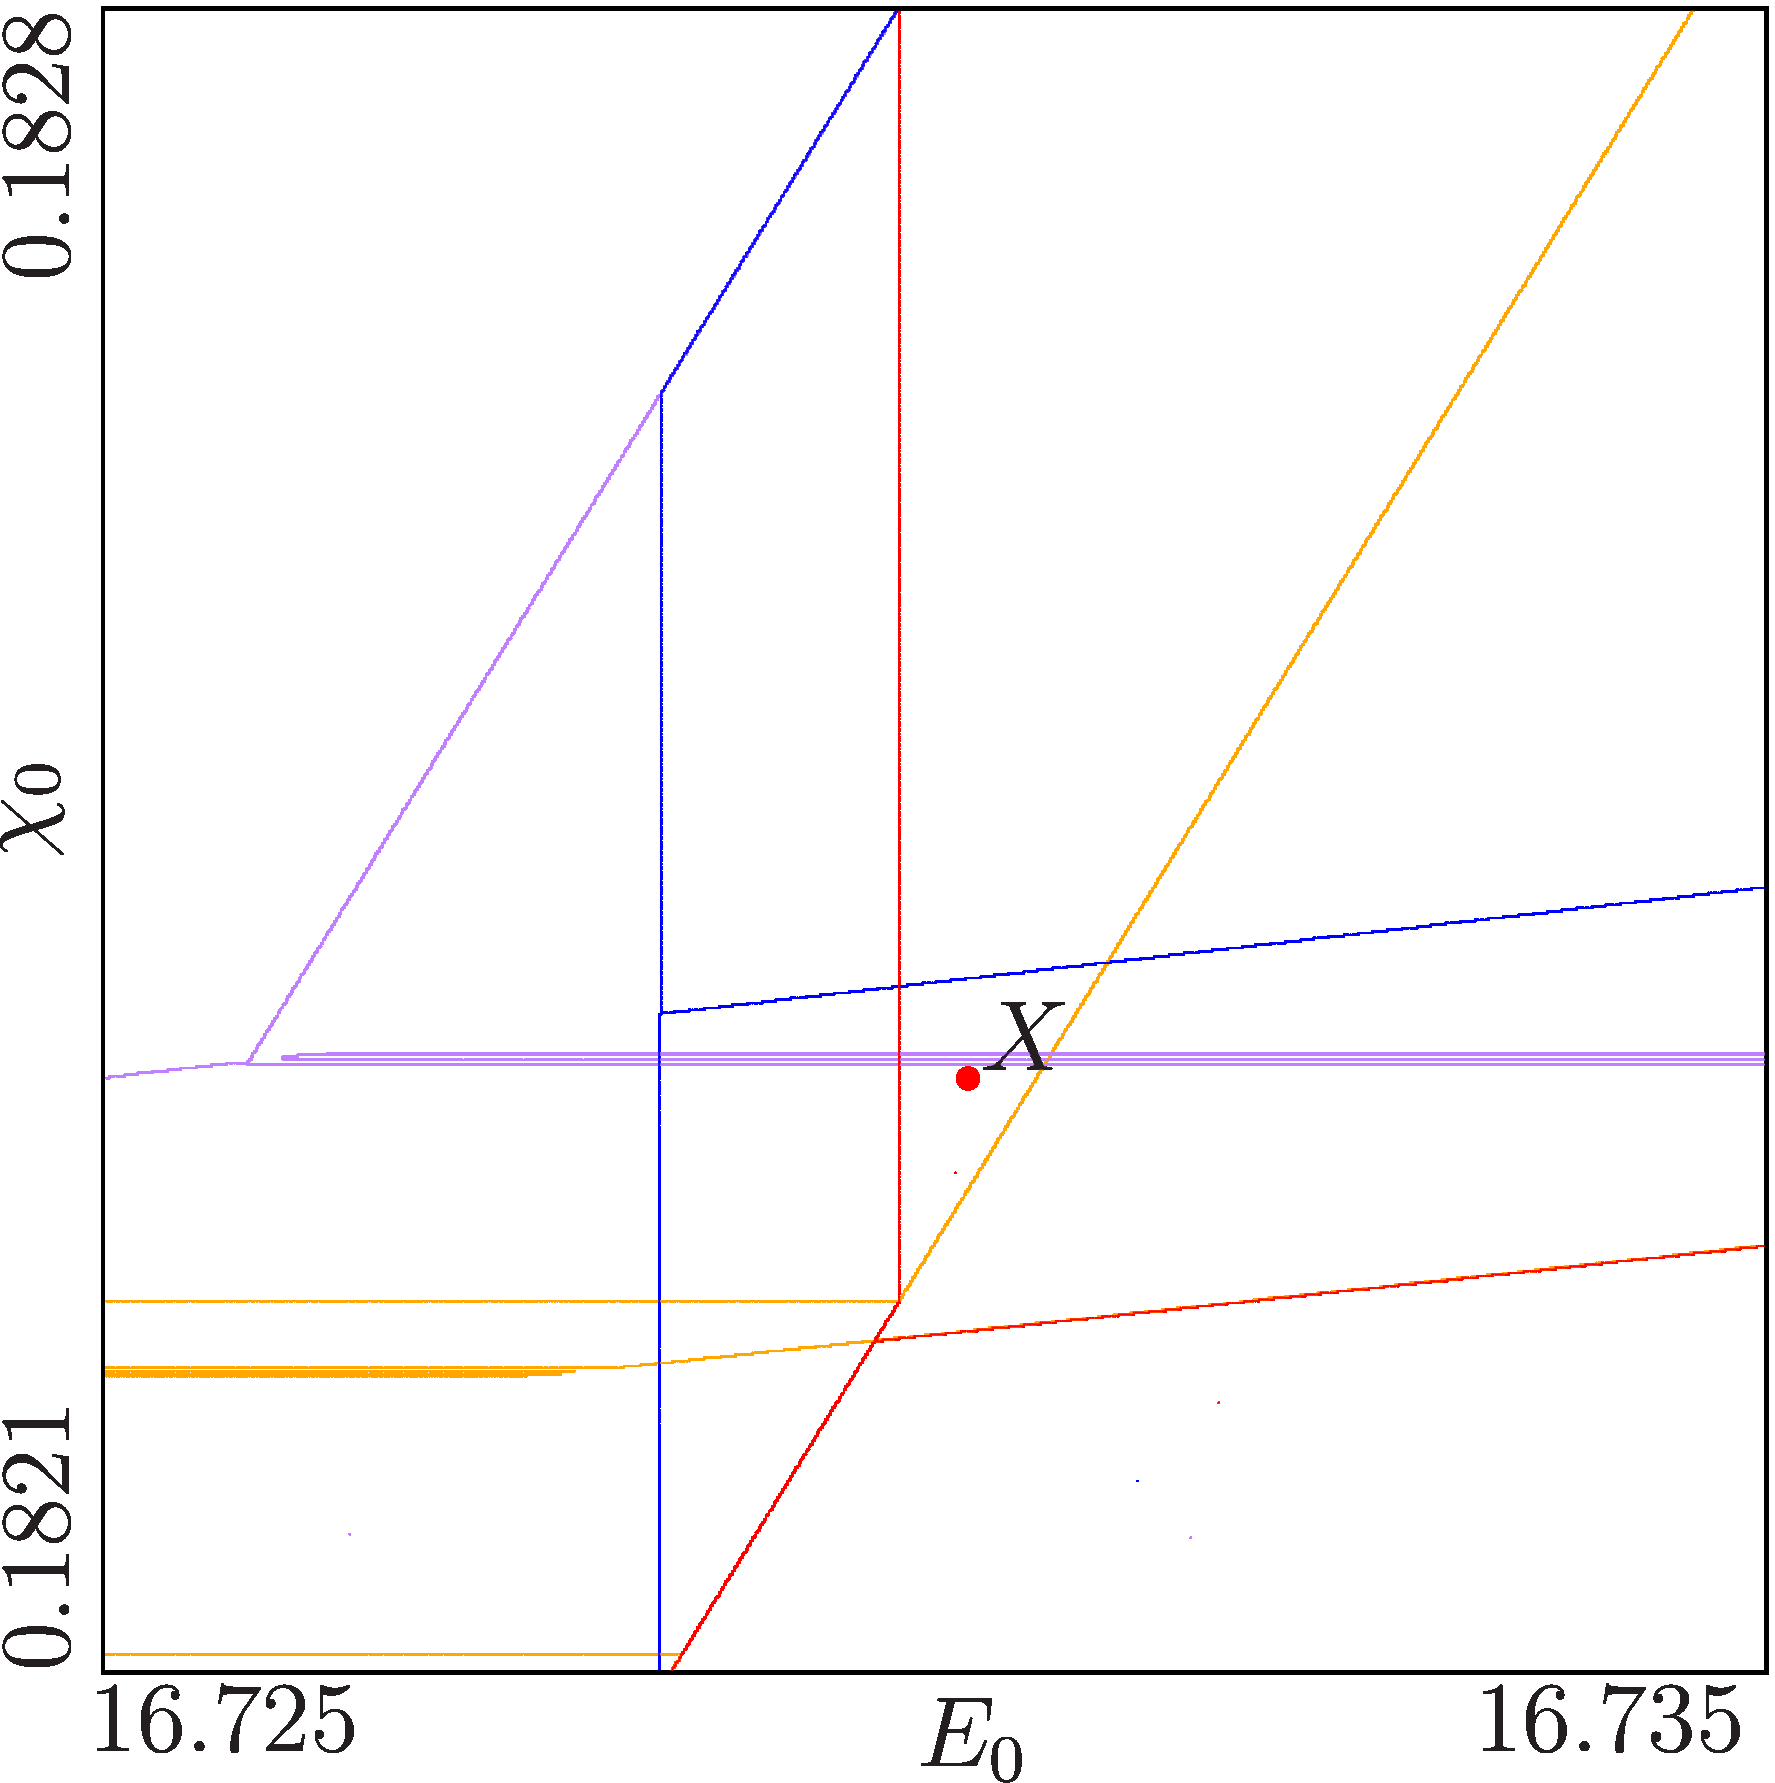
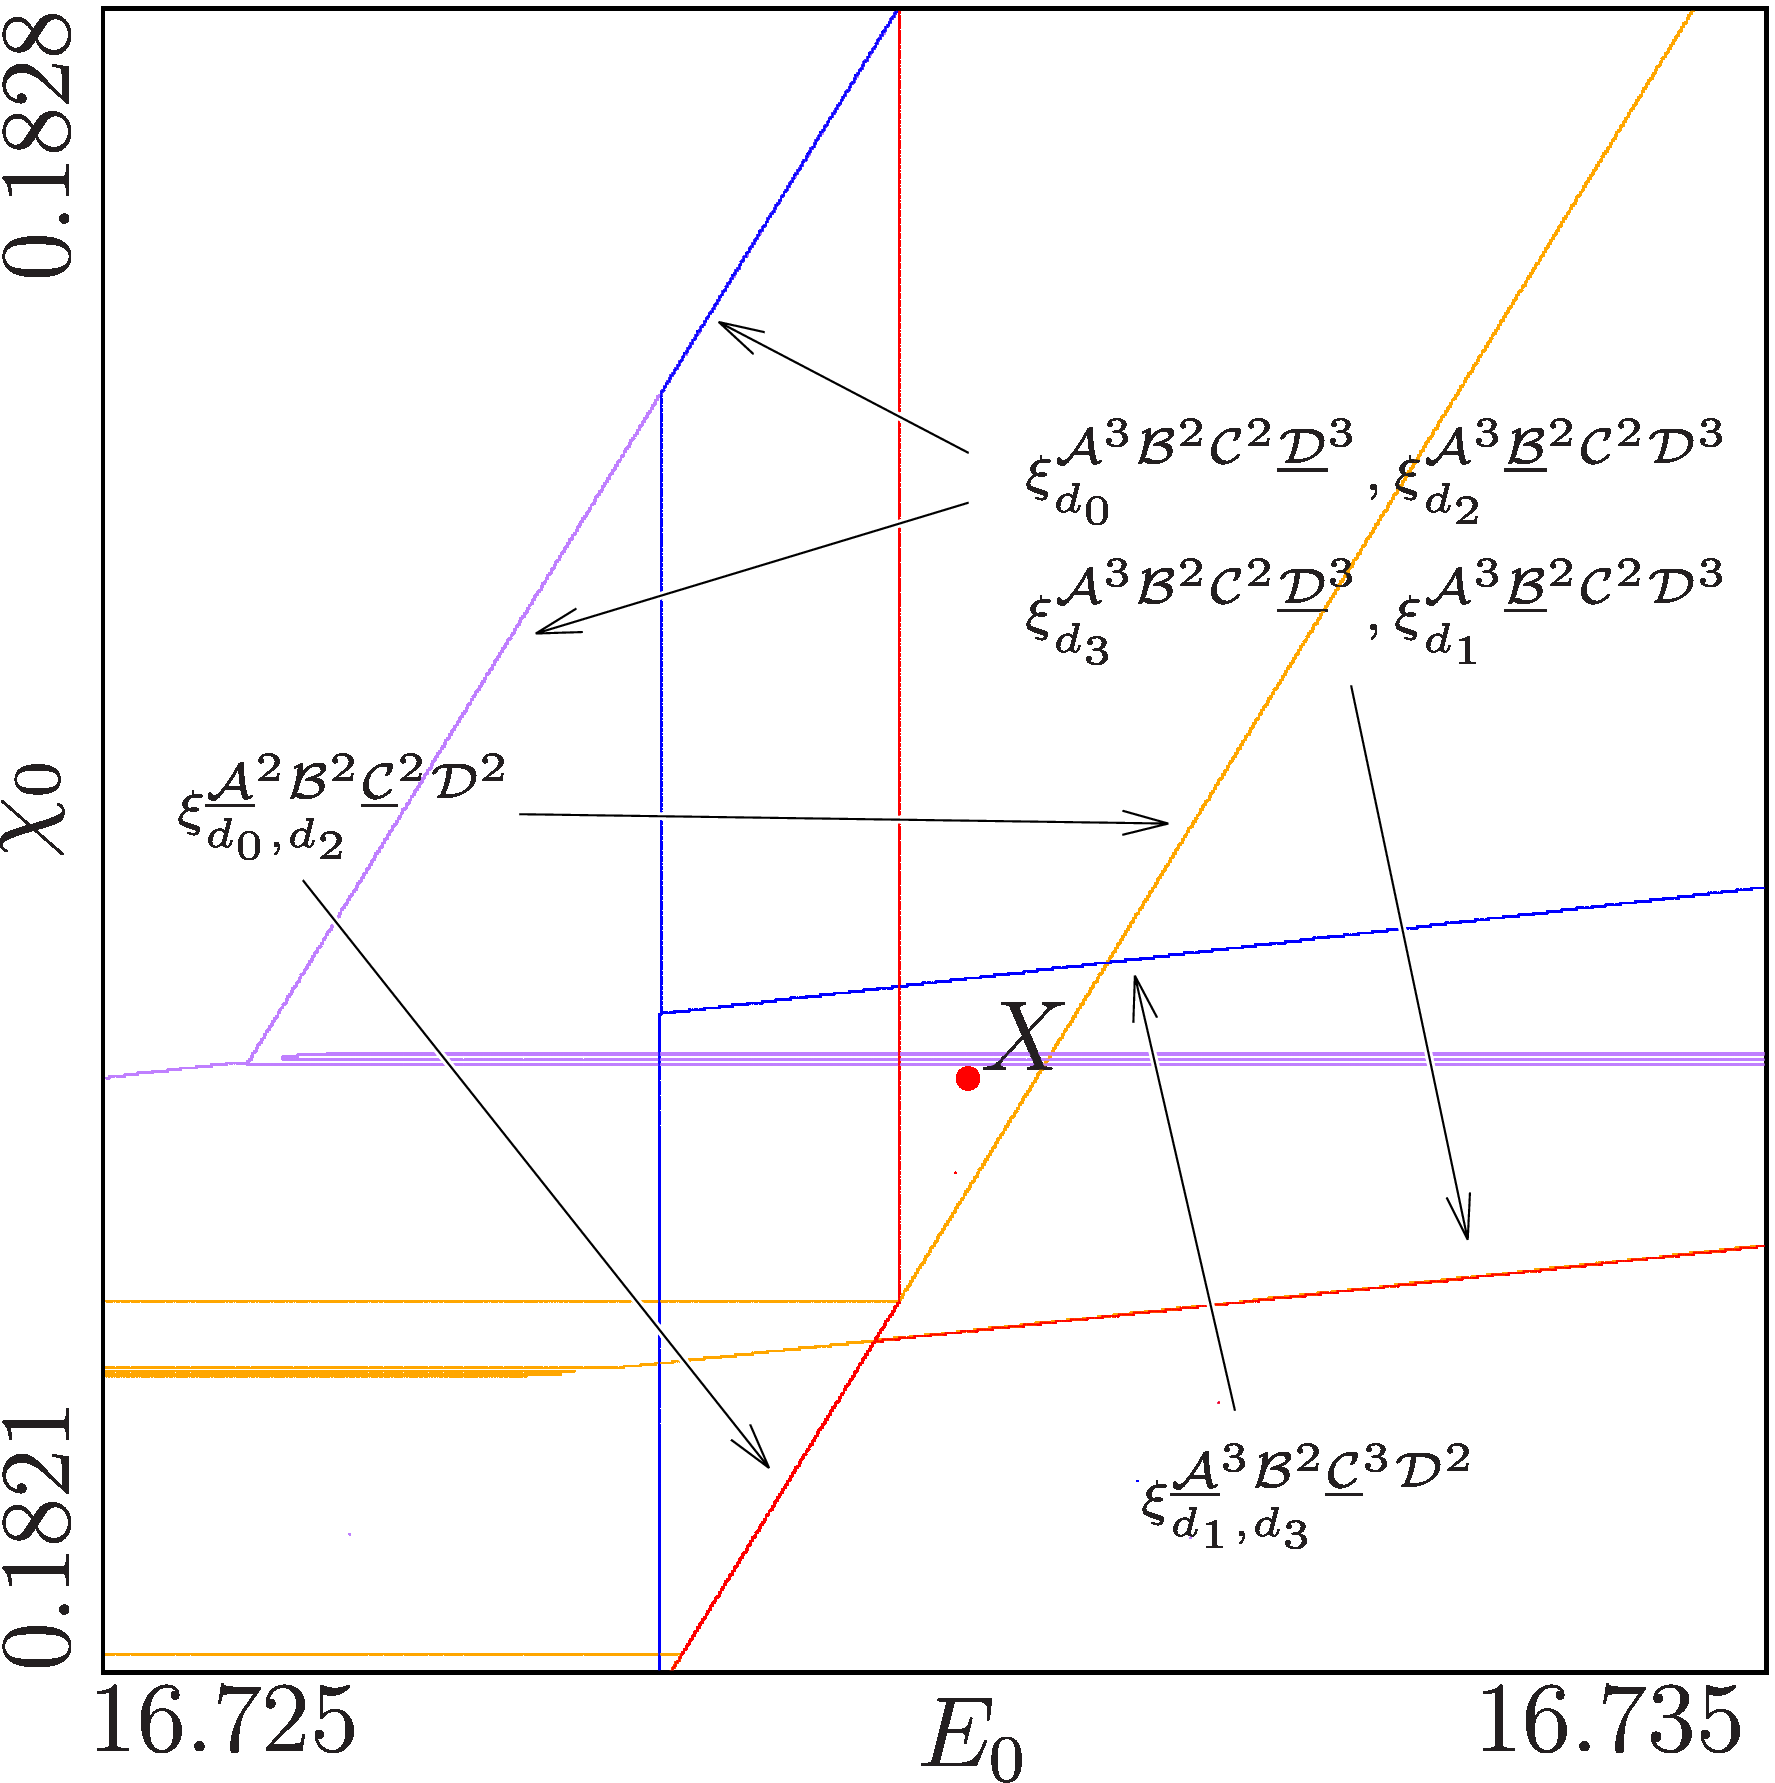
add annotations for boundaries in b scan of 4 coex in og model

diff --git a/Report/Sections/60_Dynamics/60_coexistence.tex b/Report/Sections/60_Dynamics/60_coexistence.tex
@@ -202,28 +202,20 @@ Therefore, coexisting cycles differ in their periods by two at most.
 \Citeauthor{akyuz2022} covered all these coexistence scenarios in \cite{akyuz2022} with one exception.
 The coexistence of four cycles was not described in his preliminary investigation of the original model.
 This section confirms that this scenario also exists in the original model.
-For this, \Cref{fig:arch.coex.og.regions} shows a 2D scan of the boundaries of parameter regions zoomed in at the lower left corner of the ``type B'' parameter region containing the point $F_{16}$ shown in \Cref{fig:etup.og.overlapping.regions.zoomed}.
-The ``type B'' parameter region has the stable cycles $\Cycle{\A^3\B^2\C^2\D^3}$ and $\Cycle{\A^2\B^3\C^3\D^2}$.
-It is not as clean as the previous scans of the parameter region boundaries in the archetypal model.
-The cobweb diagram at point $X$ shown in \Cref{fig:arch.coex.og.regions}, which is in the region where the two ``type A'' parameter regions and the ``type B'' parameter region should overlap, is shown in \Cref{fig:arch.coex.og.cobweb}.
-It is hard to see, since the two cycles $\Cycle{\A^3\B^2\C^3\D^2}$ shown in and $\Cycle{\A^2\B^3\C^3\D^2}$ shown in brown are almost on top of each other, but there are actually 4 cycles coexisting.
+For this, \Cref{fig:arch.coex.og.regions} shows a 2D scan of the boundaries of parameter regions zoomed in the lower left corner of the ``type B'' parameter region that is associated with the twin cycles $\Cycle{\A^3\B^2\C^2\D^3}$ and $\Cycle{\A^2\B^3\C^3\D^2}$.
+Since it is magnified a lot, it has more artifacts that are not actual boundaries of parameter regions than previous scans of boundaries.
+Therefore, the important boundaries are marked with arrows.
+The lower boundary of the ``type B'' parameter regions is marked with $\BCB^{\A^3\B^2\C^2\underline{\D}^3}_{d_3}, \BCB^{\A^3\underline{\B}^2\C^2\D^3}_{d_1}$ and its left boundary is marked with $\BCB^{\A^3\B^2\C^2\underline{\D}^3}_{d_0}, \BCB^{\A^3\underline{\B}^2\C^2\D^3}_{d_2}$.
+The parameter region below the ``type B'' parameter region is the ``type A'' parameter region that is associated with the cycle $\Cycle{\A^3\B^2\C^3\D^2}$.
+Its upper boundary is marked with $\BCB^{\underline{\A}^3\B^2\underline{\C}^3\D^2}_{d_1, d_3}$.
+And finally, the parameter region to the left of the ``type B'' parameter region is the ``type A'' parameter that is region associated with the cycle $\A^2\B^2\C^2\D^2$.
+Its right boundary is marked with $\BCB^{\underline{\A}^2\B^2\underline{\C}^2\D^2}_{d_0, d_2}$.
+All other lines in the diagram are numerical artifacts that do not correspond to boundaries of parameter regions.
 
-\begin{figure}
-	\centering
-	\subfloat[2D scan of the boundaries]{
-		\includegraphics[width=.48 \textwidth]{../Figures/6/6.11a/result.png}
-		\label{fig:arch.coex.og.regions}
-	}
-	\subfloat[Cobweb diagram at point $X$]{
-		\includegraphics[width=.48 \textwidth]{../Figures/6/6.11b/result.png}
-		\label{fig:arch.coex.og.cobweb}
-	}
-	\caption[2D scan of the boundaries of parameter regions with different symbolic sequences and cobweb diagram in the original model showing the coexistence of four cycles]{
-		2D scan of the boundaries of parameter regions with different symbolic sequences and cobweb diagram in the original model showing the coexistence of four cycles
-		The parameters $\beta = 1, f = 150, L = 4.2 \cdot 10^{-3}, R = 2, V_m = 5,$ and $\mu = 0.5$ are fixed.
-		(a) shows the 2D scan of the boundaries of parameter regions with different symbolic sequences at a specific location where a ``type B'' parameter region overlaps with two ``type A'' parameter regions.
-		The parameters $E_0$ and $\chi_0$ are varied in the ranges $[16.725, 16.735]$ and $[0.1821, 0.1828]$.
-		(b) shows the cobweb diagram at the parameter values marked with the point $X$ in (a) where $E_0 = 16.7302$ and $\chi_0 = 0.1823$.
-		Here, two ``type B'' twin cycles coexist with two ``type A'' cycles.
-	}
-\end{figure}
+The point $X$ marks parameter values that are in the overlapping area of all three parameter regions mentioned above.
+\Cref{fig:arch.coex.og.regions} shows the cobweb diagram at these parameter values.
+Here all four cycles coexist, two cycles from each ``type A'' parameter region and two cycles from the ``type B'' parameter region.
+This is hard to see, since the two cycles $\Cycle{\A^3\B^2\C^3\D^2}$ shown in blue and $\Cycle{\A^2\B^3\C^3\D^2}$ shown in brown are almost on top of each other in the blowup plot.
+But one can see that they are different cycles, as they are visibly separated right of the border $d_3$.
+
+%in next document for better layout

diff --git a/Report/Sections/60_Dynamics/80_end_of_chains.tex b/Report/Sections/60_Dynamics/80_end_of_chains.tex
@@ -1,3 +1,24 @@
+\begin{figure}
+	\centering
+	\subfloat[2D scan of the boundaries]{
+		\includegraphics[width=.48 \textwidth]{../Figures/6/6.11a/result.png}
+		\label{fig:arch.coex.og.regions}
+	}
+	\subfloat[Cobweb diagram at point $X$]{
+		\includegraphics[width=.48 \textwidth]{../Figures/6/6.11b/result.png}
+		\label{fig:arch.coex.og.cobweb}
+	}
+	\caption[2D scan of the boundaries of parameter regions with different symbolic sequences and cobweb diagram in the original model showing the coexistence of four cycles]{
+		2D scan of the boundaries of parameter regions with different symbolic sequences and cobweb diagram in the original model showing the coexistence of four cycles
+		The parameters $\beta = 1, f = 150, L = 4.2 \cdot 10^{-3}, R = 2, V_m = 5,$ and $\mu = 0.5$ are fixed.
+		(a) shows the 2D scan of the boundaries of parameter regions with different symbolic sequences at a specific location where a ``type B'' parameter region overlaps with two ``type A'' parameter regions.
+		The parameters $E_0$ and $\chi_0$ are varied in the ranges $[16.725, 16.735]$ and $[0.1821, 0.1828]$.
+		Important boundaries are marked with arrows.
+		(b) shows the cobweb diagram at the parameter values marked with the point $X$ in (a) where $E_0 = 16.7302$ and $\chi_0 = 0.1823$.
+		Here, two ``type B'' twin cycles coexist with two ``type A'' cycles.
+	}
+\end{figure}
+
 \section{End of Chains}
 \label{sec:arch.end}
 

diff --git a/Report/Sections/60_Dynamics/00_dynamics.tex b/Report/Sections/60_Dynamics/00_dynamics.tex
@@ -12,4 +12,5 @@ And finally in \Cref{sec:arch.bif}, we explore all the possible coexistence scen
 \input{Sections/60_Dynamics/50_bifurcations.tex}
 \input{Sections/60_Dynamics/60_coexistence.tex}
 
+\clearpage
 \input{Sections/60_Dynamics/80_end_of_chains.tex}
